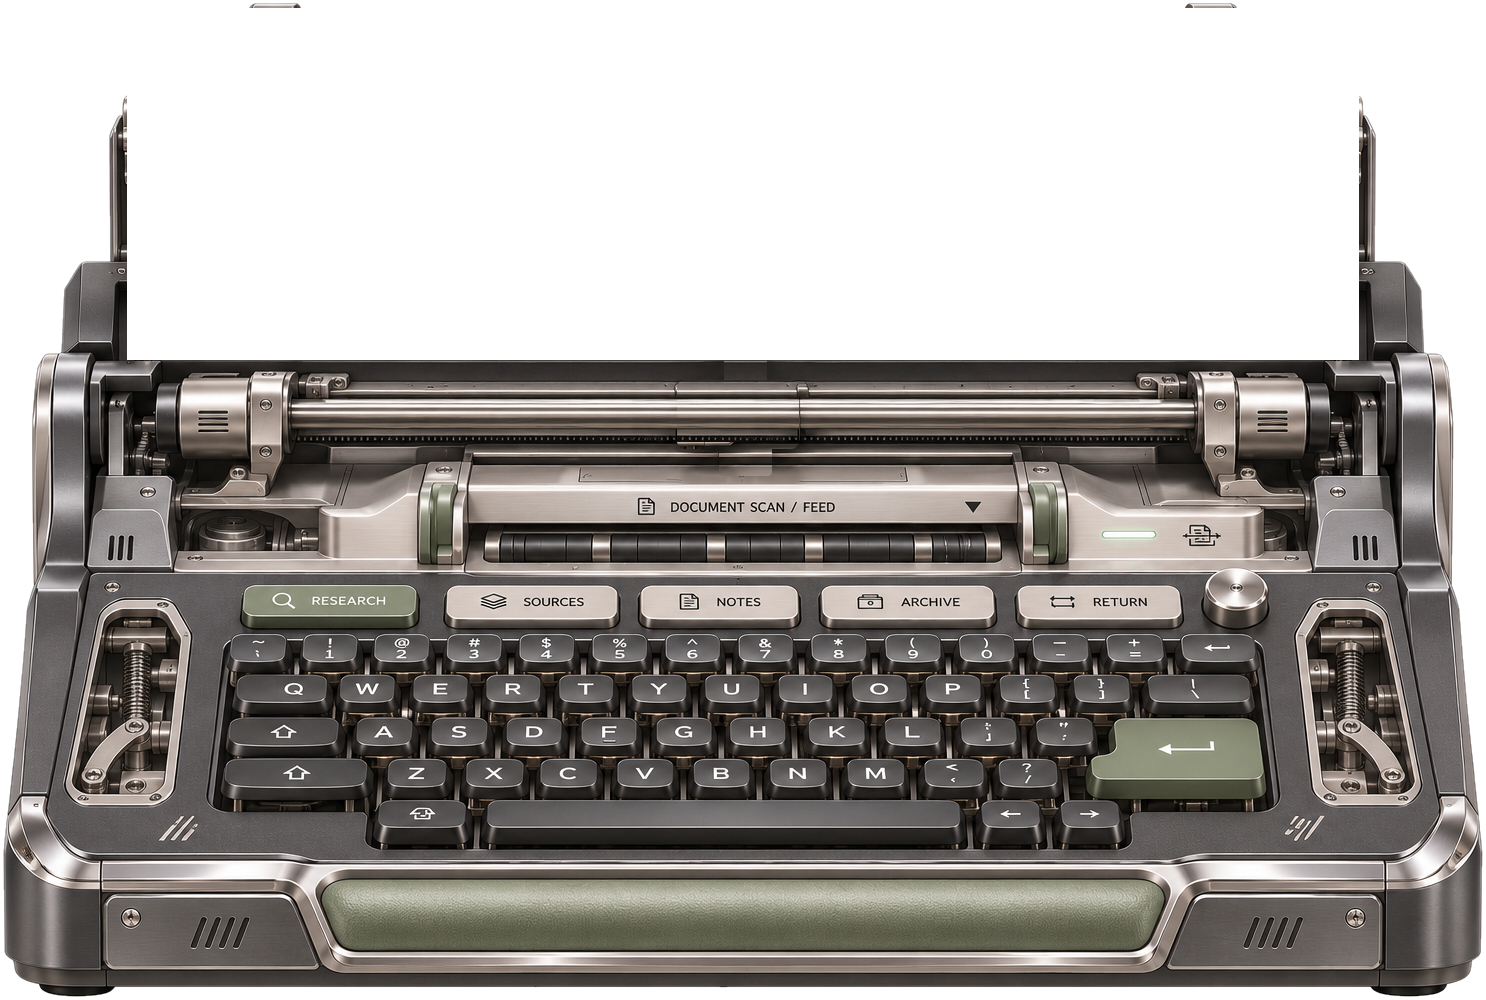
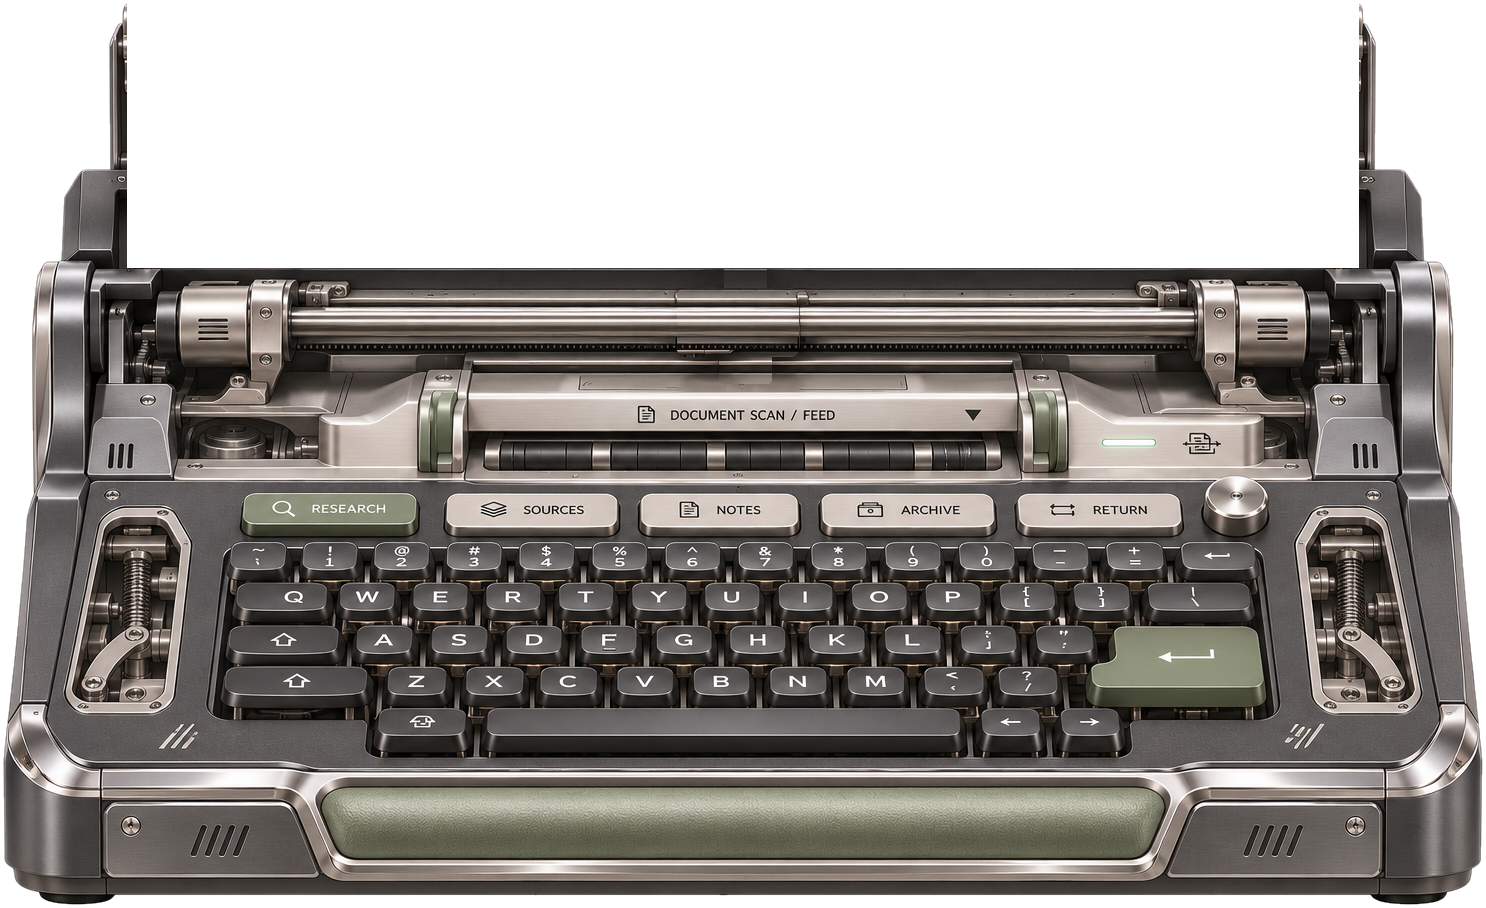
Magnetic 88: the research tablet slides up out of its slot
The tablet is one long rigid piece: docked, its screen runs down into
the slot (no lower bezel showing); the knob slides the whole of it up, the
machine sinking away, until its own foot shows at the slot. Its top chrome
edge is cut with it now (it had stayed with the machine).

Claude-Session: https://claude.ai/code/session_015VvhJ21Y4bjWDEYJNoFXMP

diff --git a/themes/retro-futurism/home/.config/quickshell/widgets/typewriter/Main.qml b/themes/retro-futurism/home/.config/quickshell/widgets/typewriter/Main.qml
@@ -24,7 +24,7 @@ import qs.services
 //   with the line.
 //
 // Placed in the mock-up's own pixels (tools/make_typewriter.py: body.png at
-// its 25, 13, tablet.png at 152, 21, carriage.png at 702, 368) and scaled once.
+// its 25, 105, tablet.png at 152, 12, carriage.png at 702, 368) and scaled once.
 Widget {
     id: self
     widgetId: "typewriter"
@@ -59,24 +59,26 @@ Widget {
         else if (view === "notes") notesEdit.forceActiveFocus();
         else sink.forceActiveFocus();
     }
-    onOpened: focusView()
+    onOpened: { if (!out) measure(); focusView(); }
 
     // ---- the tablet: in its slot (0) or pulled out (1)
     property real pop: 0
-    property real riseR: 0                     // how far its top rises
-    property real dropD: 0                     // how far the machine sinks
+    // the tablet is one long piece, most of it down in the slot: it is as
+    // long as the screen allows it to come out (measured once up)
+    property real riseR: 150                   // how far its top rises
+    property real dropD: 600                   // how far the machine sinks
     property bool out: false
     NumberAnimation on pop { id: popAnim; duration: 620; easing.type: Easing.InOutCubic; running: false }
+    function measure(): void {
+        // (its top near the screen's, the slot near the screen's foot)
+        const top0 = unit.mapToItem(null, 0, 0).y;
+        const per = (unit.mapToItem(null, 0, 100).y - top0) / 100;
+        if (per <= 0) return;
+        const winH = self.Window.height > 0 ? self.Window.height : 1200;
+        riseR = Math.max(0, 21 - (26 - top0) / per);
+        dropD = Math.max(0, (winH - 130 - top0) / per - 373);
+    }
     function togglePop(): void {
-        if (!out) {
-            // (as far as the screen allows: its top near the screen's, the
-            // slot near its foot)
-            const top0 = unit.mapToItem(null, 0, 0).y;
-            const per = (unit.mapToItem(null, 0, 100).y - top0) / 100;
-            const winH = self.Window.height > 0 ? self.Window.height : 1200;
-            riseR = Math.max(0, 21 - (26 - top0) / per);
-            dropD = Math.max(0, (winH - 130 - top0) / per - 373);
-        }
         out = !out;
         popAnim.to = out ? 1 : 0;
         popAnim.restart();
@@ -207,20 +209,29 @@ Widget {
         scale: self.k
         transformOrigin: Item.TopLeft
 
-        // ------------------------------------------------ the tablet (behind the machine: its foot in the slot)
+        // ------------------------------------------------ the tablet (behind the machine: what is below
+        // the slot is inside it, out of sight)
+        Item {
+            id: slot
+            x: 0; y: -2000
+            width: 1536; height: 2000 + 373 + self.dropD * self.pop
+            clip: true
         Item {
             id: tablet
             x: 152
-            y: 21 - self.riseR * self.pop
+            y: 2000 + 21 - self.riseR * self.pop
             width: 1232
-            height: 352 + (self.riseR + self.dropD) * self.pop
-            readonly property real paperBottom: height - 12
+            height: 352 + self.riseR + self.dropD
+            // (the paper's foot as far as one sees it: at the slot, until the
+            // tablet is right out and its own foot shows)
+            readonly property real paperBottom: 352 + (self.riseR + self.dropD) * self.pop - 12 * self.pop - 6 * (1 - self.pop)
             // (clicks on it stay with it)
             MouseArea { anchors.fill: parent; onDoubleClicked: m => { if (m.y < 82) self.togglePop(); } }
             BorderImage {
-                anchors.fill: parent
+                // (its picture starts 9 px higher, at its chrome's top edge)
+                y: -9; width: parent.width; height: parent.height + 9
                 source: self.art("tablet.png")
-                border { left: 75; right: 72; top: 95; bottom: 22 }
+                border { left: 75; right: 72; top: 104; bottom: 22 }
                 smooth: true
             }
 
@@ -599,6 +610,7 @@ Widget {
                 }
             }
         }
+        }
 
         // ------------------------------------------------ the machine, sinking away as the tablet comes out
         Item {
@@ -608,7 +620,7 @@ Widget {
 
             Image {
                 id: bodyImg
-                x: 25; y: 13
+                x: 25; y: 105              // (where body.png starts in the picture)
                 source: self.art("body.png")
                 smooth: true; mipmap: true
                 MouseArea { anchors.fill: parent }          // (clicks on it stay with it)
@@ -626,7 +638,7 @@ Widget {
                     ShaderEffectSource {
                         y: 3; width: parent.width; height: parent.height
                         sourceItem: bodyImg
-                        sourceRect: Qt.rect(pk.x - 25, pk.y - 13, pk.width, pk.height)
+                        sourceRect: Qt.rect(pk.x - bodyImg.x, pk.y - bodyImg.y, pk.width, pk.height)
                     }
                     Rectangle { y: 3; width: parent.width; height: parent.height; radius: 6; color: "black"; opacity: 0.16 }
                 }

diff --git a/themes/retro-futurism/tools/make_typewriter.py b/themes/retro-futurism/tools/make_typewriter.py
@@ -25,7 +25,7 @@ src0 = np.asarray(Image.open(src).convert('RGB')).astype(np.float32)
 img = src0.copy()
 H, W, _ = img.shape
 
-TABLET = (152, 21, 1384, 373, 56)          # its frame: x0 y0 x1 y1 (its foot in the slot), corner radius
+TABLET = (152, 12, 1384, 373, 60)          # its frame: x0 y0 x1 y1 (its foot in the slot), corner radius
 PAPER = (213, 103, 1322, 361, 14)          # its screen, in the picture
 CARRIAGE = [(749, 368, 792, 400, 6), (702, 393, 824, 462, 8), (744, 455, 797, 489, 4)]
 
@@ -89,7 +89,6 @@ tx0, ty0, tx1, ty1, tr = TABLET
 tab = src0[ty0:ty1, tx0:tx1].copy()
 tab[y0 - ty0:y1 - ty0, x0 - tx0:x1 - tx0] = paper
 ta = rrect(tx1 - tx0, ty1 - ty0, tr, corners=(True, True, False, False))
-save(tab, ta, 'tablet.png')
 
 # ---- the body: off the white (flood from the corners), the tablet's place
 # let through
@@ -113,8 +112,12 @@ n, lab, st, _ = cv2.connectedComponentsWithStats(body.astype(np.uint8), connecti
 body = lab == 1 + np.argmax(st[1:, cv2.CC_STAT_AREA])
 body = cv2.morphologyEx(body.astype(np.uint8), cv2.MORPH_CLOSE, np.ones((5, 5), np.uint8)).astype(bool)
 alpha = cv2.GaussianBlur(body.astype(np.float32), (0, 0), 0.7) * cv2.dilate(body.astype(np.uint8), cross)
+# (the tablet: its rounded box, less the white ground round its corners)
+ground_soft = cv2.GaussianBlur(bg.astype(np.float32), (0, 0), 0.7)
+ta = ta * (1 - ground_soft[ty0:ty1, tx0:tx1])
+save(tab, ta, 'tablet.png')
 hole = np.zeros((H, W), np.float32)
-hole[ty0:ty1, tx0:tx1] = ta
+hole[ty0:ty1, tx0:tx1] = rrect(tx1 - tx0, ty1 - ty0, tr, corners=(True, True, False, False))
 alpha = alpha * (1 - hole)
 ys, xs = np.where(alpha > 0.02)
 bx0, by0, bx1, by1 = xs.min() - 2, ys.min() - 2, xs.max() + 3, ys.max() + 3
